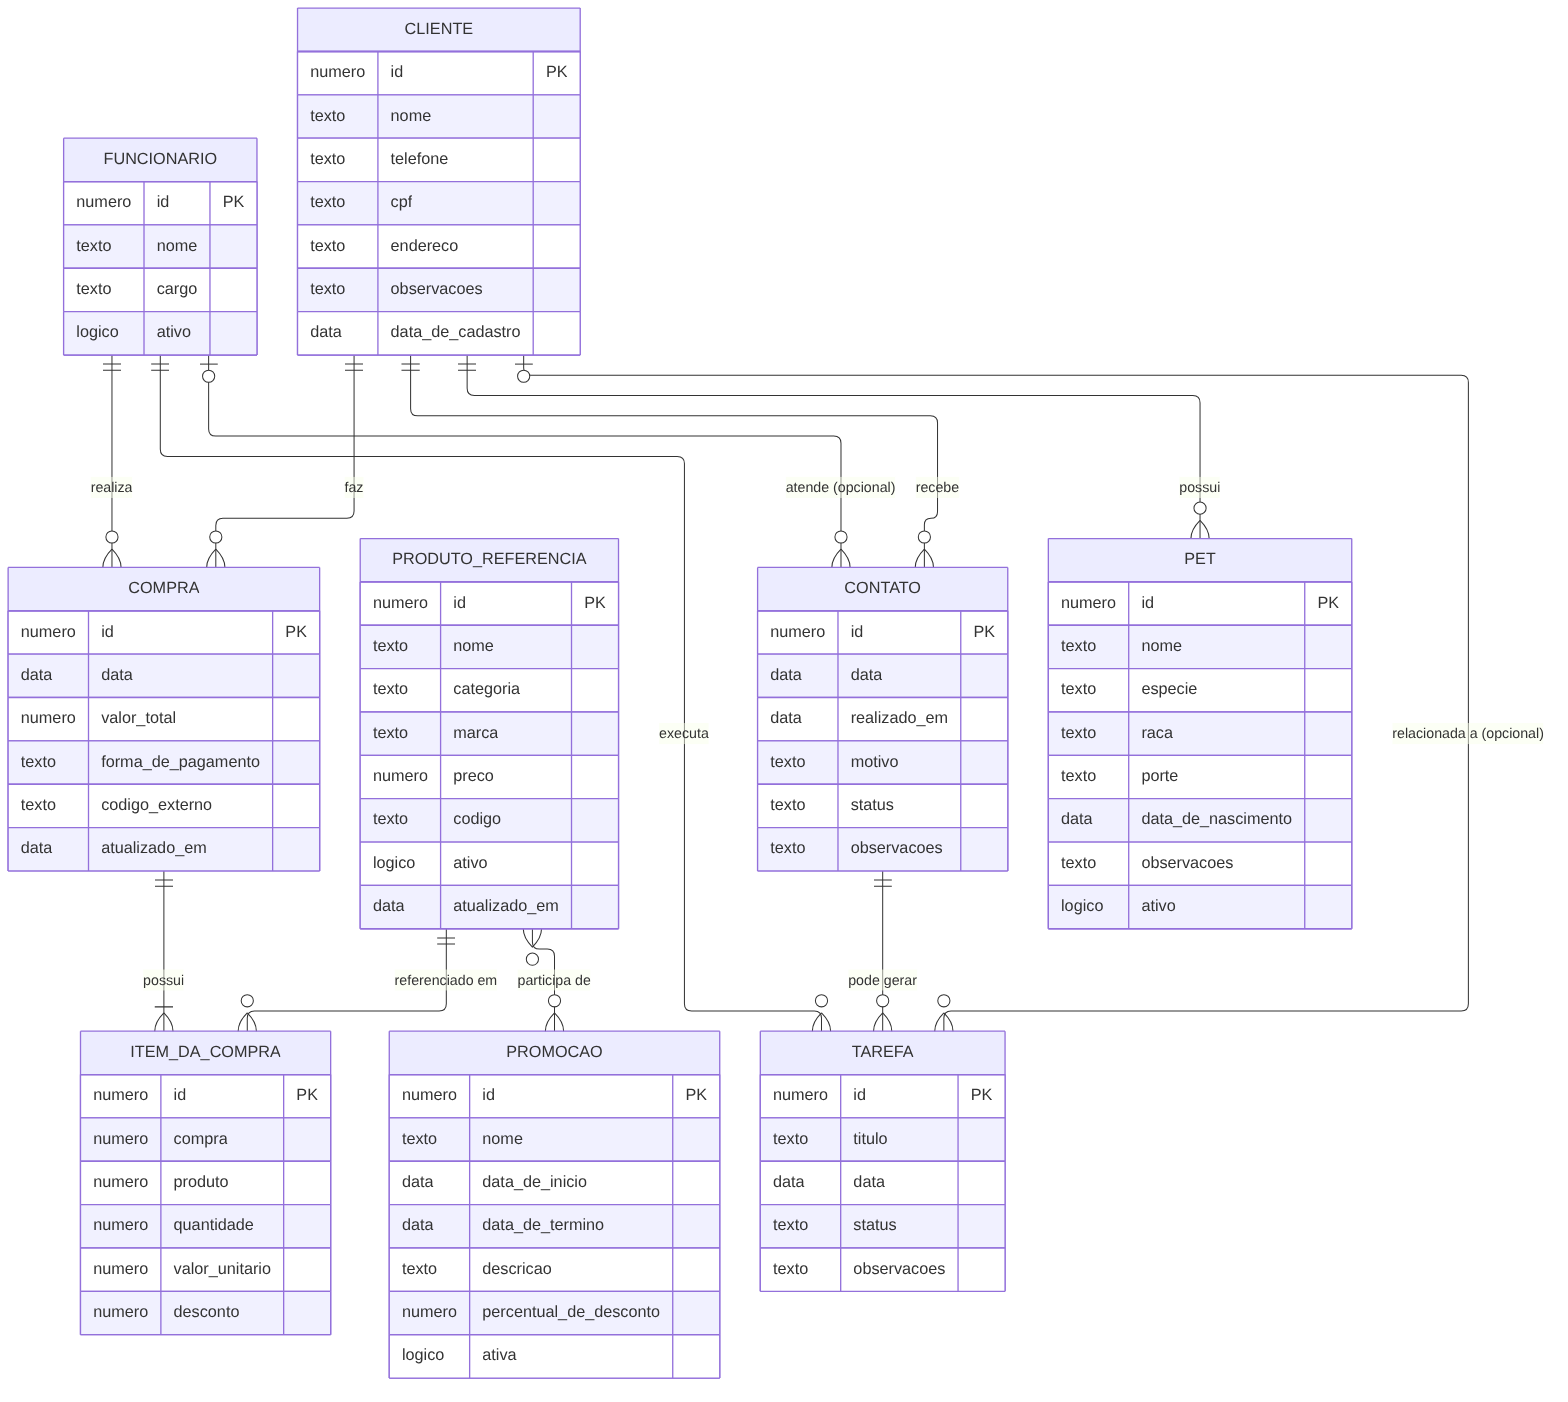
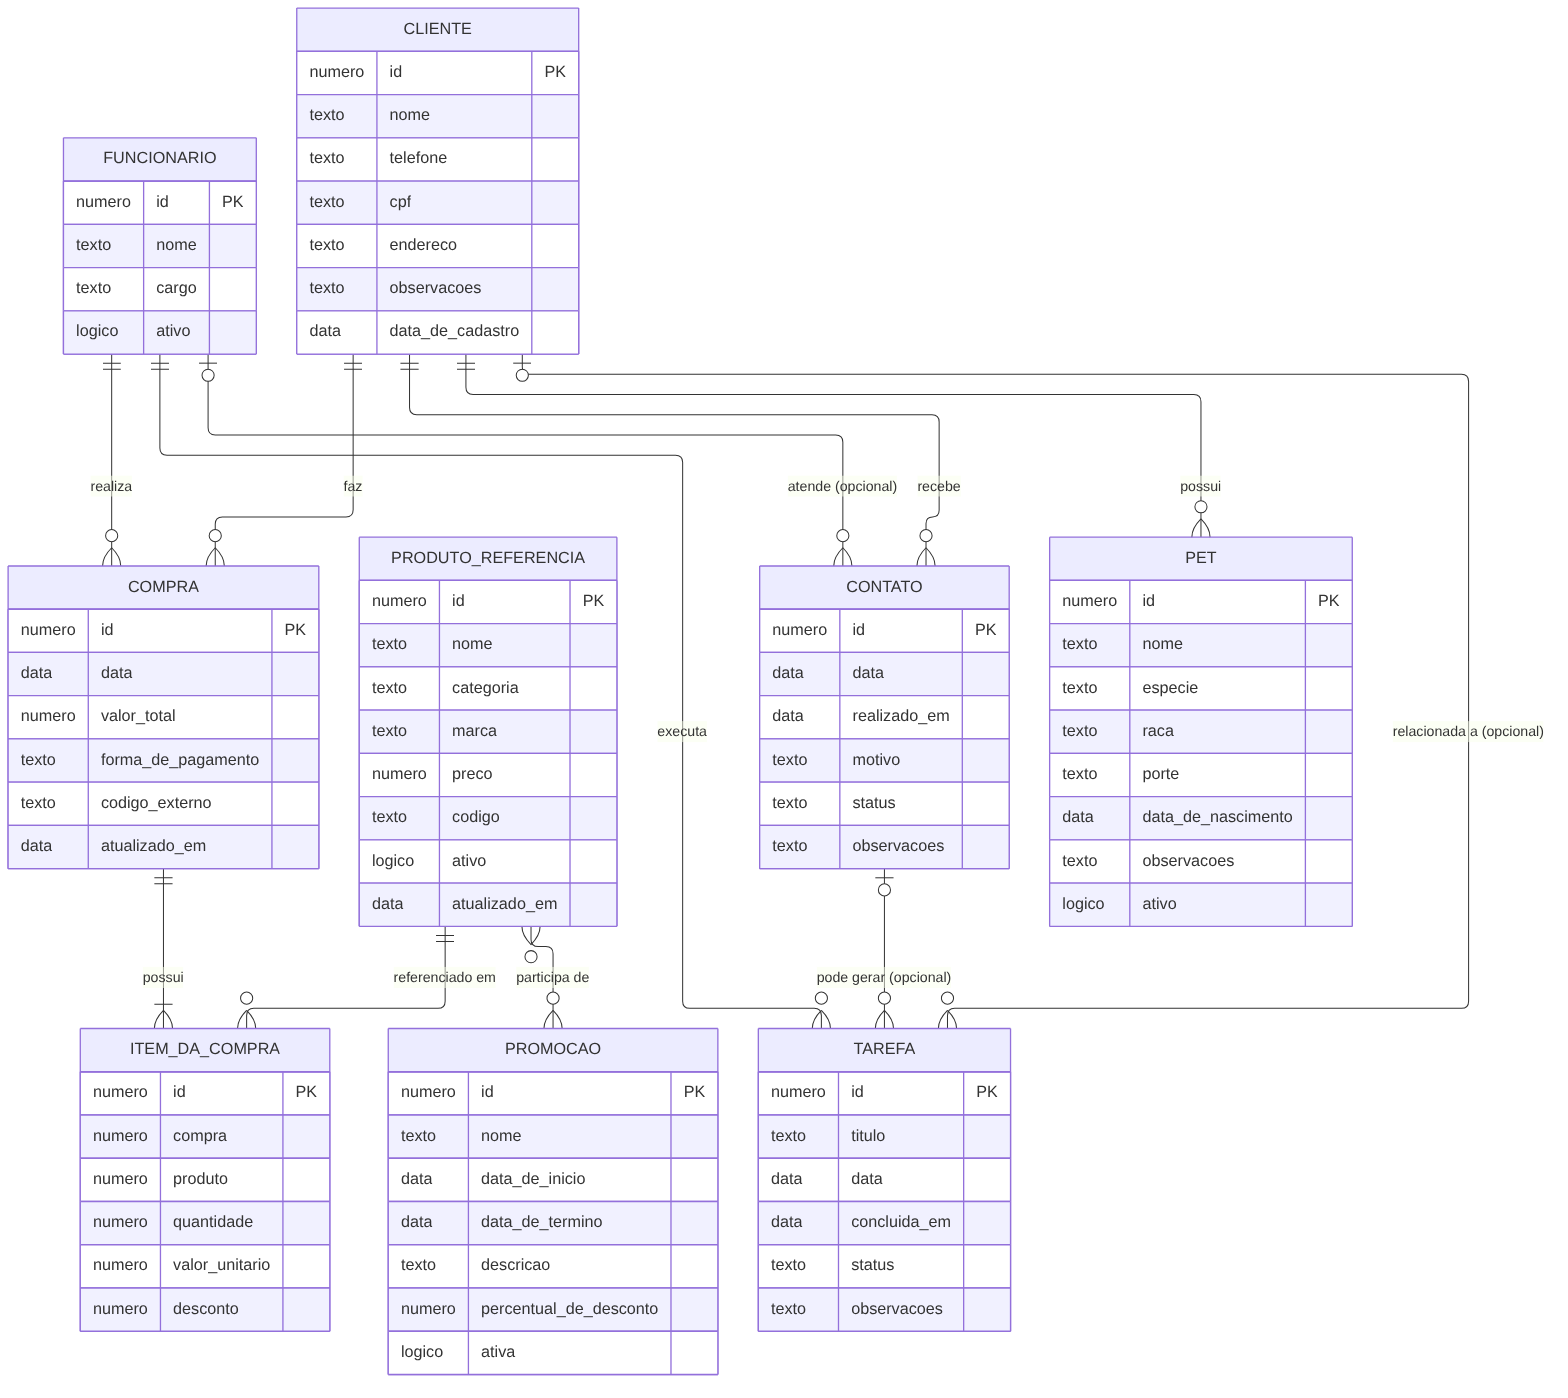
docs: torna contato opcional em tarefa no der

diff --git a/docs/der.md b/docs/der.md
@@ -16,7 +16,7 @@ erDiagram
     PRODUTO_REFERENCIA }o--o{ PROMOCAO : "participa de"
     CLIENTE ||--o{ CONTATO : "recebe"
     FUNCIONARIO |o--o{ CONTATO : "atende (opcional)"
-    CONTATO ||--o{ TAREFA : "pode gerar"
+    CONTATO |o--o{ TAREFA : "pode gerar (opcional)"
     FUNCIONARIO ||--o{ TAREFA : "executa"
     CLIENTE |o--o{ TAREFA : "relacionada a (opcional)"
 
@@ -100,6 +100,7 @@ erDiagram
         numero id PK
         texto titulo
         data data
+        data concluida_em
         texto status
         texto observacoes
     }
@@ -116,8 +117,8 @@ erDiagram
 | Produto Referência | 1:N | Item da Compra | Um produto pode aparecer em vários itens; cada item refere-se a um produto. |
 | Produto Referência | N:N | Promoção | Um produto pode estar em várias promoções e uma promoção pode envolver vários produtos. |
 | Cliente | 1:N | Contato | Um cliente pode receber vários contatos. |
-| Funcionário | 1:N | Contato | Um funcionário registra vários contatos. |
-| Contato | 1:N | Tarefa | Um contato pode gerar várias tarefas. |
+| Funcionário | 1:N (opcional) | Contato | Um funcionário atende vários contatos; um contato pode ainda não ter funcionário (criado automaticamente). |
+| Contato | 1:N (opcional) | Tarefa | Um contato pode gerar várias tarefas; uma tarefa pode existir sem contato de origem. |
 | Funcionário | 1:N | Tarefa | Um funcionário executa várias tarefas. |
 | Cliente | 1:N (opcional) | Tarefa | Uma tarefa pode, ou não, estar relacionada a um cliente. |
 
@@ -130,7 +131,7 @@ erDiagram
 - **Funcionário opcional em Contato:** o contato é criado automaticamente pelas regras do sistema, sem responsável; o funcionário passa a ser registrado quando executa o contato. A primeira versão do desenho indicava exatamente um funcionário. Atributo `realizado_em` acrescentado (instante da execução); `data` indica o dia previsto do contato.
 - **Atributos `compra` e `produto` em Item da Compra:** no DER original eles já aparecem como atributos; no modelo lógico serão as chaves estrangeiras que ligam o item à compra e ao produto.
 - **Cardinalidade Item da Compra × Produto Referência:** um item refere-se a exatamente um produto, e um produto pode aparecer em zero ou muitos itens. A primeira versão do desenho indicava "um ou muitos" no lado Produto Referência; a cardinalidade correta é "exatamente um".
-- **Em aberto (não alterado nesta revisão):** a obrigatoriedade das relações Contato → Tarefa e Cliente → Tarefa (uma tarefa pode existir sem contato de origem?) será confirmada quando chegarmos na entidade Tarefa.
+- **Tarefa:** a relação com Contato é opcional (uma tarefa pode existir sem contato de origem, uso previsto no planner), assim como a relação com Cliente. A primeira versão do desenho ligava Contato e Tarefa com um losango (símbolo de composição), que não corresponde à regra de negócio ("o contato pode gerar uma tarefa") e foi substituído pela cardinalidade 1:N opcional. Atributo `concluida_em` acrescentado (instante da conclusão); `data` indica o dia previsto.
 - **Imagem do diagrama:** [`der.png`](der.png) é uma imagem gerada a partir do diagrama deste arquivo, já com a entidade `Pet`. Se o diagrama mudar, este arquivo (`der.md`) é a referência: a imagem deve ser gerada de novo a partir dele.
 
 ![DER conceitual](der.png)

diff --git a/docs/modelo-de-dominio.md b/docs/modelo-de-dominio.md
@@ -16,7 +16,7 @@ erDiagram
     PRODUTO_REFERENCIA }o--o{ PROMOCAO : "participa de"
     CLIENTE ||--o{ CONTATO : "recebe"
     FUNCIONARIO |o--o{ CONTATO : "atende (opcional)"
-    CONTATO ||--o{ TAREFA : "pode gerar"
+    CONTATO |o--o{ TAREFA : "pode gerar (opcional)"
     FUNCIONARIO ||--o{ TAREFA : "executa"
     CLIENTE |o--o{ TAREFA : "relacionada a (opcional)"
 ```
